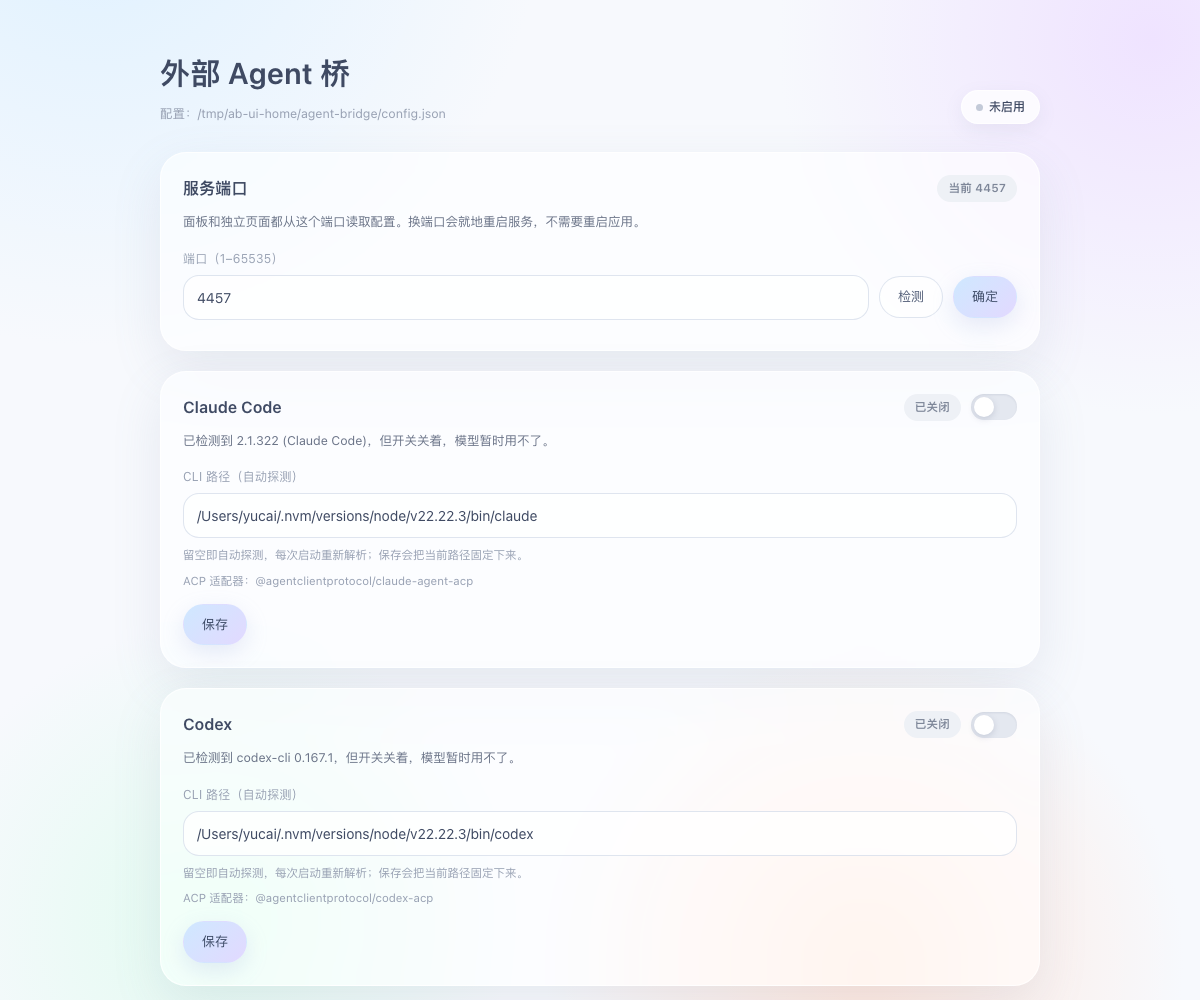
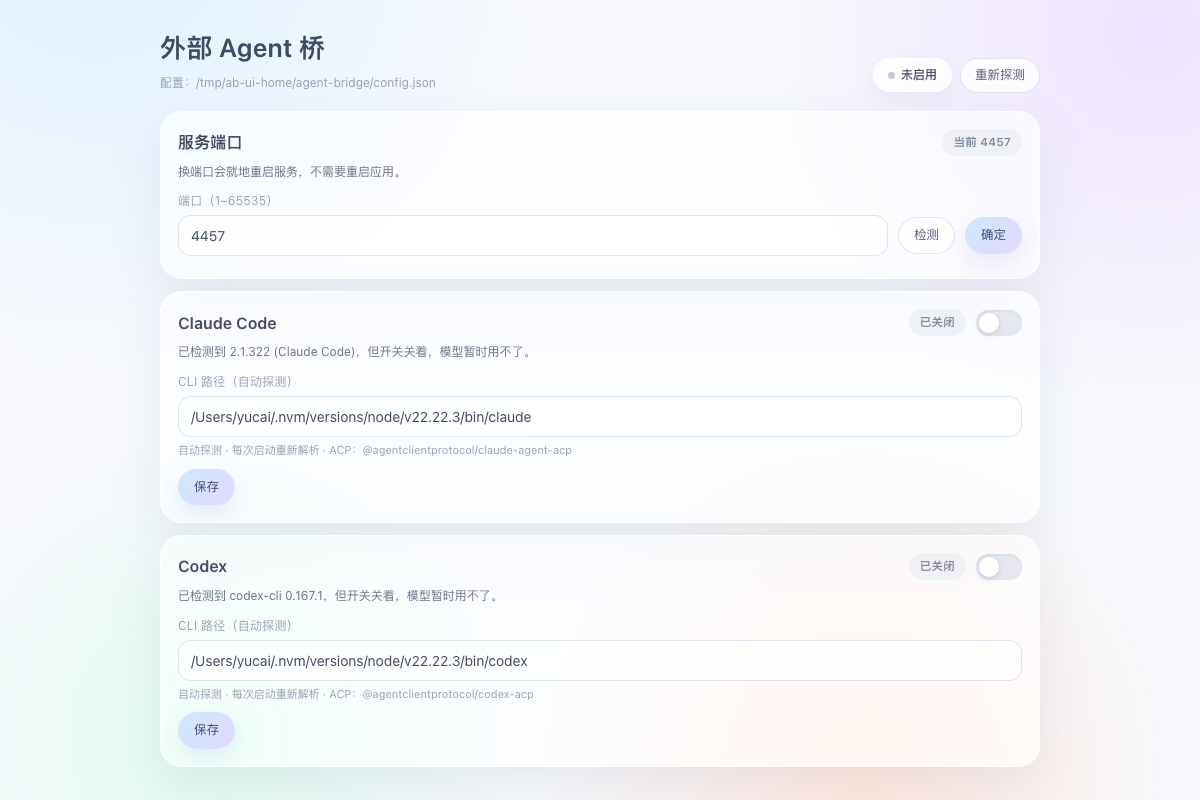
Compact layout: probe in header, tighter cards, everything visible without scrolling

diff --git a/lib/client.js b/lib/client.js
@@ -29,16 +29,19 @@ window.__ModuleLoader__.load({
       .ab-row:hover{background:rgba(255,255,255,.55)}
       .ab-row .ab-dot{width:8px;height:8px;border-radius:50%;flex:none;background:linear-gradient(135deg,#9be8c8,#7bd3ae);box-shadow:0 0 0 3px rgba(155,232,200,.22)}
       .ab-overlay{position:fixed;inset:0;z-index:9000;display:flex;justify-content:flex-end;background:rgba(40,48,66,.16);backdrop-filter:blur(5px);-webkit-backdrop-filter:blur(5px)}
-      .ab-panel{width:min(560px,100%);height:100%;overflow-y:auto;padding:24px clamp(16px,4vw,26px) 36px;color:#3f4a63;font:400 14px/1.65 -apple-system,BlinkMacSystemFont,"PingFang SC","Hiragino Sans GB","Segoe UI",sans-serif;border-left:1px solid rgba(255,255,255,.9);box-shadow:-24px 0 60px rgba(90,100,130,.16);background:linear-gradient(165deg,rgba(255,255,255,.86),rgba(255,255,255,.66)),radial-gradient(60% 40% at 100% 0%,#e6ddff 0%,rgba(230,221,255,0) 70%),radial-gradient(50% 40% at 0% 100%,#d9f6e9 0%,rgba(217,246,233,0) 70%);backdrop-filter:blur(30px) saturate(160%);-webkit-backdrop-filter:blur(30px) saturate(160%)}
+      .ab-panel{display:flex;flex-direction:column;width:min(560px,100%);height:100%;overflow:hidden;color:#3f4a63;font:400 14px/1.65 -apple-system,BlinkMacSystemFont,"PingFang SC","Hiragino Sans GB","Segoe UI",sans-serif;border-left:1px solid rgba(255,255,255,.9);box-shadow:-24px 0 60px rgba(90,100,130,.16);background:linear-gradient(165deg,rgba(255,255,255,.86),rgba(255,255,255,.66)),radial-gradient(60% 40% at 100% 0%,#e6ddff 0%,rgba(230,221,255,0) 70%),radial-gradient(50% 40% at 0% 100%,#d9f6e9 0%,rgba(217,246,233,0) 70%);backdrop-filter:blur(30px) saturate(160%);-webkit-backdrop-filter:blur(30px) saturate(160%)}
+      .ab-headbar{flex:none;padding:18px 18px 8px}
+      .ab-body{flex:1 1 auto;min-height:0;overflow-y:auto;padding:0 18px 10px}
+      .ab-foot{flex:none;padding:10px 18px 14px;border-top:1px solid rgba(255,255,255,.7);background:rgba(255,255,255,.5);backdrop-filter:blur(16px);-webkit-backdrop-filter:blur(16px)}
       .ab-panel *{box-sizing:border-box}
       .ab-title{display:flex;align-items:center;justify-content:space-between;gap:12px;margin:0 0 4px}
-      .ab-title strong{font-size:20px;font-weight:600;letter-spacing:.02em}
+      .ab-title strong{font-size:18px;font-weight:600;letter-spacing:.02em}
       .ab-sub{margin:0;font-size:12px;color:#98a1b3;word-break:break-all}
-      .ab-overall{display:inline-flex;align-items:center;gap:6px;margin-top:10px;padding:5px 12px;border-radius:999px;font-size:12px;font-weight:500;background:rgba(255,255,255,.8);border:1px solid rgba(255,255,255,.9);box-shadow:0 6px 16px rgba(120,132,160,.10)}
+      .ab-overall{display:inline-flex;align-items:center;gap:6px;margin-top:8px;padding:4px 11px;border-radius:999px;font-size:12px;font-weight:500;background:rgba(255,255,255,.8);border:1px solid rgba(255,255,255,.9);box-shadow:0 6px 16px rgba(120,132,160,.10)}
       .ab-overall i{width:7px;height:7px;border-radius:50%;background:#b9c2d2;font-style:normal}
       .ab-overall.is-on{color:#2f7a58}
       .ab-overall.is-on i{background:#8fe3c0;box-shadow:0 0 0 3px rgba(143,227,192,.25)}
-      .ab-card{margin-top:14px;padding:16px 18px;border-radius:22px;border:1px solid rgba(255,255,255,.9);background:rgba(255,255,255,.6);box-shadow:0 14px 36px rgba(120,132,160,.10);backdrop-filter:blur(18px);-webkit-backdrop-filter:blur(18px)}
+      .ab-card{margin-top:9px;padding:12px 14px;border-radius:18px;border:1px solid rgba(255,255,255,.9);background:rgba(255,255,255,.6);box-shadow:0 14px 36px rgba(120,132,160,.10);backdrop-filter:blur(18px);-webkit-backdrop-filter:blur(18px)}
       .ab-head{display:flex;align-items:center;justify-content:space-between;gap:12px;min-width:0}
       .ab-name{font-size:15px;font-weight:600}
       .ab-right{display:flex;align-items:center;gap:10px}
@@ -51,14 +54,14 @@ window.__ModuleLoader__.load({
       .ab-switch[aria-checked="true"]{background:linear-gradient(135deg,#8fe3c0,#79d7b1)}
       .ab-switch[aria-checked="true"]::after{transform:translateX(20px)}
       .ab-switch:focus-visible{outline:2px solid #a9c9ff;outline-offset:2px}
-      .ab-summary{margin:10px 0 0;font-size:12.5px;color:#6b7488}
-      .ab-label{display:block;margin:16px 0 6px;font-size:12px;color:#98a1b3;letter-spacing:.02em}
-      .ab-input{width:100%;min-width:0;padding:10px 13px;font:inherit;color:#3f4a63;background:rgba(255,255,255,.78);border:1px solid rgba(196,208,226,.55);border-radius:16px;outline:none;transition:border-color .18s ease,box-shadow .18s ease}
+      .ab-summary{margin:6px 0 0;font-size:12px;color:#6b7488}
+      .ab-label{display:block;margin:10px 0 4px;font-size:12px;color:#98a1b3;letter-spacing:.02em}
+      .ab-input{width:100%;min-width:0;padding:8px 12px;font:inherit;color:#3f4a63;background:rgba(255,255,255,.78);border:1px solid rgba(196,208,226,.55);border-radius:16px;outline:none;transition:border-color .18s ease,box-shadow .18s ease}
       .ab-input::placeholder{color:#b3bbc9}
       .ab-input:focus{border-color:#b9d4f6;box-shadow:0 0 0 4px rgba(185,212,246,.28)}
-      .ab-hint{margin:8px 0 0;font-size:11.5px;line-height:1.55;color:#98a1b3;word-break:break-all}
+      .ab-hint{margin:5px 0 0;font-size:11px;line-height:1.5;color:#98a1b3;word-break:break-all}
       .ab-actions{display:flex;align-items:center;flex-wrap:wrap;gap:10px;margin-top:14px}
-      .ab-btn{padding:8px 16px;font:inherit;font-size:13px;color:#55607a;cursor:pointer;background:rgba(255,255,255,.8);border:1px solid rgba(196,208,226,.55);border-radius:999px;transition:transform .16s ease,box-shadow .16s ease,background .16s ease}
+      .ab-btn{padding:7px 14px;font:inherit;font-size:12.5px;color:#55607a;cursor:pointer;background:rgba(255,255,255,.8);border:1px solid rgba(196,208,226,.55);border-radius:999px;transition:transform .16s ease,box-shadow .16s ease,background .16s ease}
       .ab-btn:hover{transform:translateY(-1px);box-shadow:0 8px 20px rgba(120,132,160,.16)}
       .ab-btn:active{transform:translateY(0)}
       .ab-btn:disabled{opacity:.55;cursor:default;transform:none;box-shadow:none}
@@ -237,27 +240,29 @@ window.__ModuleLoader__.load({
         onClick: (event) => { if (event.target === event.currentTarget) onClose() },
       },
         h('div', { className: 'ab-panel' },
-          h('div', { className: 'ab-title' },
-            h('strong', null, '外部 Agent 桥'),
-            h('button', { className: 'ab-btn is-ghost', style: { marginTop: 0 }, onClick: onClose }, '关闭')),
-          h('p', { className: 'ab-sub' }, state ? `配置：${state.configPath}` : '加载中…'),
-          state ? h('div', { className: `ab-overall ${ready.length > 0 ? 'is-on' : ''}` },
-            h('i'),
-            h('span', null, ready.length > 0
-              ? `已启用 ${ready.length} 个：${ready.map(agent => `ask_${agent.id}`).join('、')}`
-              : '当前没有启用的 Agent，模型无法派遣任务。')) : null,
-          error ? h('p', { className: 'ab-hint', style: { color: '#b45860' } }, error) : null,
-          state ? h(PortCard, {
-            port: state.port, busy, setBusy,
-            onApplied: (next) => setState(next),
-          }) : null,
-          ...(state ? state.agents.map((agent) => h(AgentCard, {
-            key: agent.id, agent, busy,
-            onSave: (patch) => save(agent.id, patch),
-          })) : []),
-          h('div', { className: 'ab-actions' },
+          h('div', { className: 'ab-headbar' },
+            h('div', { className: 'ab-title' },
+              h('strong', null, '外部 Agent 桥'),
+              h('button', { className: 'ab-btn is-ghost', onClick: onClose }, '关闭')),
+            h('p', { className: 'ab-sub' }, state ? `配置：${state.configPath}` : '加载中…'),
+            state ? h('div', { className: `ab-overall ${ready.length > 0 ? 'is-on' : ''}` },
+              h('i'),
+              h('span', null, ready.length > 0
+                ? `已启用 ${ready.length} 个：${ready.map(agent => `ask_${agent.id}`).join('、')}`
+                : '当前没有启用的 Agent，模型无法派遣任务。')) : null),
+          h('div', { className: 'ab-body' },
+            error ? h('p', { className: 'ab-hint', style: { color: '#b45860' } }, error) : null,
+            state ? h(PortCard, {
+              port: state.port, busy, setBusy,
+              onApplied: (next) => setState(next),
+            }) : null,
+            ...(state ? state.agents.map((agent) => h(AgentCard, {
+              key: agent.id, agent, busy,
+              onSave: (patch) => save(agent.id, patch),
+            })) : [])),
+          h('div', { className: 'ab-foot' },
             h('button', {
-              className: 'ab-btn', disabled: busy,
+              className: 'ab-btn is-primary', disabled: busy,
               onClick: async () => {
                 setBusy(true)
                 setNotice('探测中…')
@@ -273,7 +278,7 @@ window.__ModuleLoader__.load({
                 }
               },
             }, busy ? '探测中…' : '全部重新探测'),
-            notice ? h('span', { className: 'ab-status', role: 'status' }, notice) : null),
+            notice ? h('span', { className: 'ab-status', role: 'status', style: { marginLeft: 10 } }, notice) : null),
         ))
     }
 

diff --git a/public/index.html b/public/index.html
@@ -21,7 +21,7 @@
     --peach: #ffd9cc;
     --rose: #ffc9cf;
     --shadow: 0 18px 50px rgba(120, 132, 160, 0.14);
-    --radius-lg: 26px;
+    --radius-lg: 22px;
     --radius-md: 16px;
     --radius-pill: 999px;
   }
@@ -33,7 +33,7 @@
   body {
     margin: 0;
     min-height: 100%;
-    padding: clamp(18px, 4vw, 48px) clamp(14px, 4vw, 40px) 64px;
+    padding: clamp(12px, 2.6vw, 26px) clamp(12px, 3vw, 28px) 26px;
     font: 400 14px/1.65 -apple-system, BlinkMacSystemFont, "PingFang SC", "Hiragino Sans GB", "Segoe UI", sans-serif;
     color: var(--ink);
     background:
@@ -48,9 +48,9 @@
 
   .page { width: min(880px, 100%); margin: 0 auto; min-width: 0; }
 
-  .top { display: flex; align-items: flex-end; justify-content: space-between; gap: 16px; margin-bottom: clamp(18px, 3vw, 28px); }
-  h1 { margin: 0; font-size: clamp(22px, 3.4vw, 30px); font-weight: 600; letter-spacing: 0.02em; }
-  .sub { margin: 6px 0 0; font-size: 12.5px; color: var(--ink-faint); word-break: break-all; }
+  .top { display: flex; align-items: flex-end; justify-content: space-between; gap: 12px; margin-bottom: clamp(12px, 2vw, 18px); }
+  h1 { margin: 0; font-size: clamp(20px, 3vw, 26px); font-weight: 600; letter-spacing: 0.02em; }
+  .sub { margin: 4px 0 0; font-size: 12px; color: var(--ink-faint); word-break: break-all; }
 
   .pill {
     display: inline-flex; align-items: center; gap: 6px;
@@ -67,8 +67,8 @@
     background: var(--glass);
     border: 1px solid var(--line);
     border-radius: var(--radius-lg);
-    padding: clamp(16px, 2.6vw, 22px);
-    margin-bottom: clamp(14px, 2.2vw, 20px);
+    padding: clamp(13px, 2vw, 17px);
+    margin-bottom: clamp(9px, 1.6vw, 12px);
     box-shadow: var(--shadow);
     backdrop-filter: blur(22px) saturate(150%);
     -webkit-backdrop-filter: blur(22px) saturate(150%);
@@ -101,25 +101,25 @@
   .switch[aria-checked="true"]::after { transform: translateX(20px); }
   .switch:focus-visible { outline: 2px solid #a9c9ff; outline-offset: 2px; }
 
-  .summary { margin: 10px 0 0; font-size: 12.5px; color: var(--ink-soft); }
+  .summary { margin: 6px 0 0; font-size: 12px; color: var(--ink-soft); }
 
-  .field { margin-top: 16px; }
-  .label { display: block; margin-bottom: 6px; font-size: 12px; color: var(--ink-faint); letter-spacing: 0.02em; }
+  .field { margin-top: 10px; }
+  .label { display: block; margin-bottom: 4px; font-size: 12px; color: var(--ink-faint); letter-spacing: 0.02em; }
   .input {
-    width: 100%; min-width: 0; padding: 10px 13px; font: inherit; color: var(--ink);
+    width: 100%; min-width: 0; padding: 8px 12px; font: inherit; color: var(--ink);
     background: var(--glass-strong); border: 1px solid var(--line-soft);
-    border-radius: var(--radius-md); outline: none;
+    border-radius: 13px; outline: none;
     transition: border-color 0.18s ease, box-shadow 0.18s ease;
   }
   .input::placeholder { color: #b3bbc9; }
   .input:focus { border-color: #b9d4f6; box-shadow: 0 0 0 4px rgba(185, 212, 246, 0.28); }
 
-  .hint { margin: 8px 0 0; font-size: 11.5px; line-height: 1.55; color: var(--ink-faint); word-break: break-all; }
+  .hint { margin: 5px 0 0; font-size: 11px; line-height: 1.5; color: var(--ink-faint); word-break: break-all; }
 
-  .actions { display: flex; align-items: center; flex-wrap: wrap; gap: 10px; margin-top: 14px; }
+  .actions { display: flex; align-items: center; flex-wrap: wrap; gap: 8px; margin-top: 10px; }
 
   .btn {
-    padding: 9px 18px; font: inherit; font-size: 13px; color: #55607a; cursor: pointer;
+    padding: 7px 15px; font: inherit; font-size: 12.5px; color: #55607a; cursor: pointer;
     background: var(--glass-strong); border: 1px solid var(--line-soft);
     border-radius: var(--radius-pill);
     transition: transform 0.16s ease, box-shadow 0.16s ease, background 0.16s ease;
@@ -139,6 +139,9 @@
 
   .port-row { display: flex; gap: 10px; align-items: center; flex-wrap: wrap; min-width: 0; }
   .port-row .input { flex: 1 1 160px; }
+
+  .top-right { display: flex; align-items: center; gap: 8px; flex-wrap: wrap; }
+  .top-right .btn { padding: 6px 14px; }
 
   .toast {
     position: fixed; left: 50%; bottom: 28px; transform: translate(-50%, 16px);
@@ -169,7 +172,10 @@
         <h1>外部 Agent 桥</h1>
         <p class="sub" id="config-path">正在读取配置…</p>
       </div>
-      <span class="pill" id="overall"><span class="dot"></span><span id="overall-text">加载中</span></span>
+      <div class="top-right">
+        <span class="pill" id="overall"><span class="dot"></span><span id="overall-text">加载中</span></span>
+        <button class="btn" id="probe">重新探测</button>
+      </div>
     </header>
 
     <section class="card" id="port-card">
@@ -177,7 +183,7 @@
         <span class="name">服务端口</span>
         <span class="chip off" id="port-current">当前 4319</span>
       </div>
-      <p class="summary">面板和独立页面都从这个端口读取配置。换端口会就地重启服务，不需要重启应用。</p>
+      <p class="summary">换端口会就地重启服务，不需要重启应用。</p>
       <div class="field">
         <label class="label" for="port-input">端口（1–65535）</label>
         <div class="port-row">
@@ -191,10 +197,6 @@
 
     <div id="cards"></div>
 
-    <div class="actions">
-      <button class="btn" id="probe">全部重新探测</button>
-      <span class="status" id="probe-status"></span>
-    </div>
   </main>
 
   <div class="toast" id="toast" role="status"></div>
@@ -253,9 +255,8 @@ const cardFor = (agent) => {
   input.placeholder = agent.effectiveCommand
   field.append(input)
   field.append(el('p', 'hint', agent.command === ''
-    ? '留空即自动探测，每次启动重新解析；保存会把当前路径固定下来。'
-    : '当前使用固定路径；清空并保存可恢复自动探测。'))
-  field.append(el('p', 'hint', `ACP 适配器：${agent.adapterPackage}`))
+    ? `自动探测 · 每次启动重新解析 · ACP：${agent.adapterPackage}`
+    : `固定路径 · 清空并保存可恢复自动 · ACP：${agent.adapterPackage}`))
 
   const actions = el('div', 'actions')
   const saveButton = el('button', 'btn primary', '保存')
@@ -330,14 +331,18 @@ const applyPort = async () => {
 
 document.getElementById('port-check').onclick = checkPort
 document.getElementById('port-apply').onclick = applyPort
-document.getElementById('probe').onclick = async () => {
-  const status = document.getElementById('probe-status')
-  status.textContent = '探测中…'
+document.getElementById('probe').onclick = async (event) => {
+  const button = event.currentTarget
+  button.disabled = true
+  button.textContent = '探测中…'
   try {
     render(await api('/api/probe', { method: 'POST' }))
-    status.textContent = `已重新探测 · ${new Date().toLocaleTimeString()}`
+    toast(`已重新探测 · ${new Date().toLocaleTimeString()}`)
   } catch (error) {
-    status.textContent = error.message
+    toast(error.message)
+  } finally {
+    button.disabled = false
+    button.textContent = '重新探测'
   }
 }
 
